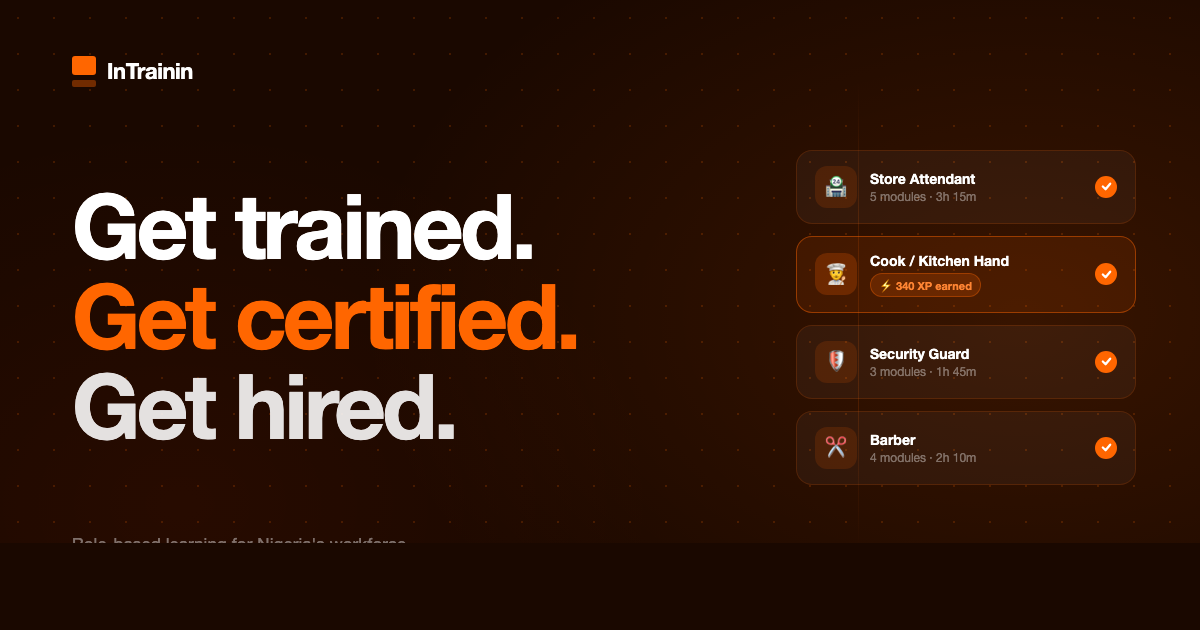
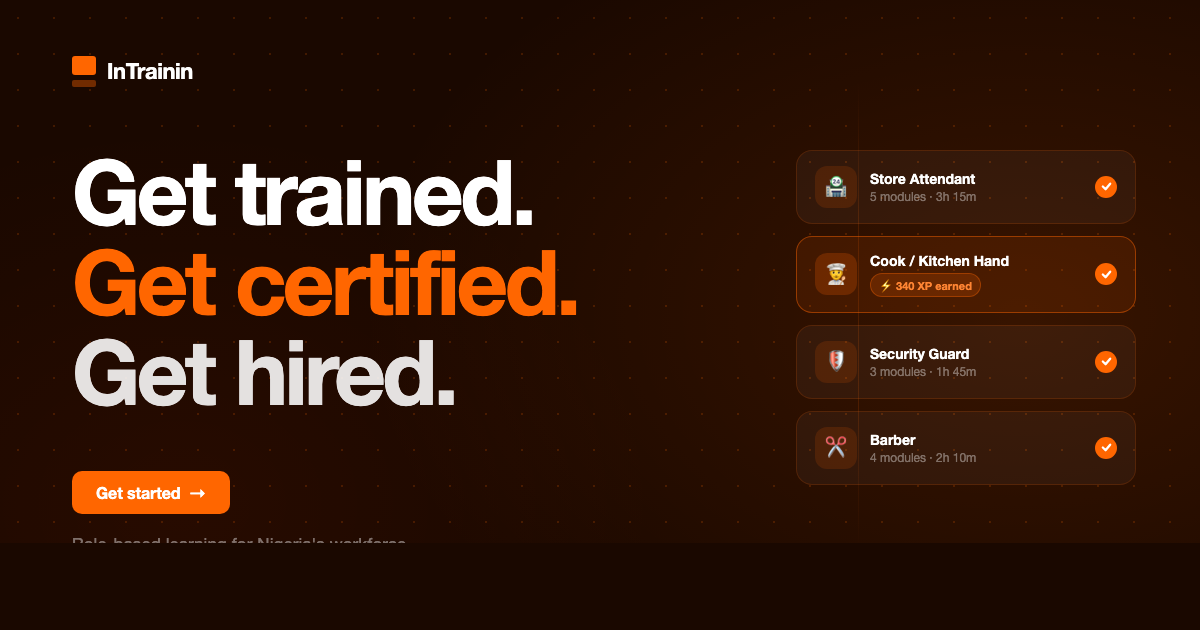
made updates

Changed region(s): [[0.0617, 0.2413, 0.4933, 0.6937], [0.0617, 0.7238, 0.2158, 0.8143]]

diff --git a/apps/web/src/app/layout.tsx b/apps/web/src/app/layout.tsx
@@ -22,13 +22,13 @@ export const metadata: Metadata = {
   metadataBase: new URL(
     process.env.NEXT_PUBLIC_APP_URL ?? "https://intrainin.vercel.app",
   ),
-  title: "InTrainin | Role-Based Learning Platform",
+  title: "InTrainin | Get Trained, Certified & Hired in Nigeria",
   description:
-    "InTrainin is a web-first progressive learning platform helping informal sector workers get trained, certified, and matched to better jobs.",
+    "InTrainin helps Nigeria's informal sector workers get trained in role-specific skills, earn verifiable certificates, and get matched to real jobs — for free.",
   openGraph: {
-    title: "InTrainin | Role-Based Learning Platform",
+    title: "InTrainin | Get Trained, Certified & Hired in Nigeria",
     description:
-      "Get trained, certified, and hired. Role-based learning for informal sector workers across Nigeria.",
+      "Nigeria's role-based learning platform for informal sector workers. Get trained, earn a verifiable certificate, and get matched to real jobs — start free today.",
     url: "/",
     siteName: "InTrainin",
     images: [{ url: "/og.png", width: 1200, height: 630, alt: "InTrainin — Get trained. Get certified. Get hired." }],
@@ -36,9 +36,9 @@ export const metadata: Metadata = {
   },
   twitter: {
     card: "summary_large_image",
-    title: "InTrainin | Role-Based Learning Platform",
+    title: "InTrainin | Get Trained, Certified & Hired in Nigeria",
     description:
-      "Get trained, certified, and hired. Role-based learning for informal sector workers across Nigeria.",
+      "Nigeria's role-based learning platform for informal sector workers. Get trained, earn a verifiable certificate, and get matched to real jobs — start free today.",
     images: ["/og.png"],
   },
 };

diff --git a/scripts/og-image.html b/scripts/og-image.html
@@ -107,6 +107,27 @@
   .orange { color: #FF6600; }
   .dim    { color: rgba(255,255,255,0.88); }
 
+  /* CTA button */
+  .cta {
+    display: inline-flex;
+    align-items: center;
+    gap: 8px;
+    background: #FF6600;
+    color: #FFFFFF;
+    font-size: 16px;
+    font-weight: 700;
+    letter-spacing: -0.1px;
+    padding: 12px 24px;
+    border-radius: 10px;
+    width: fit-content;
+    margin-top: 4px;
+  }
+
+  .cta-arrow {
+    font-size: 18px;
+    line-height: 1;
+  }
+
   /* Bottom meta */
   .meta {
     display: flex;
@@ -254,9 +275,12 @@
         <span class="line dim">Get hired.</span>
       </div>
 
-      <div class="meta">
-        <span class="tagline">Role-based learning for Nigeria's workforce</span>
-        <span class="url">intrainin.com</span>
+      <div>
+        <div class="cta">Get started <span class="cta-arrow">→</span></div>
+        <div class="meta" style="margin-top: 20px;">
+          <span class="tagline">Role-based learning for Nigeria's workforce</span>
+          <span class="url">intrainin.com</span>
+        </div>
       </div>
     </div>
 
